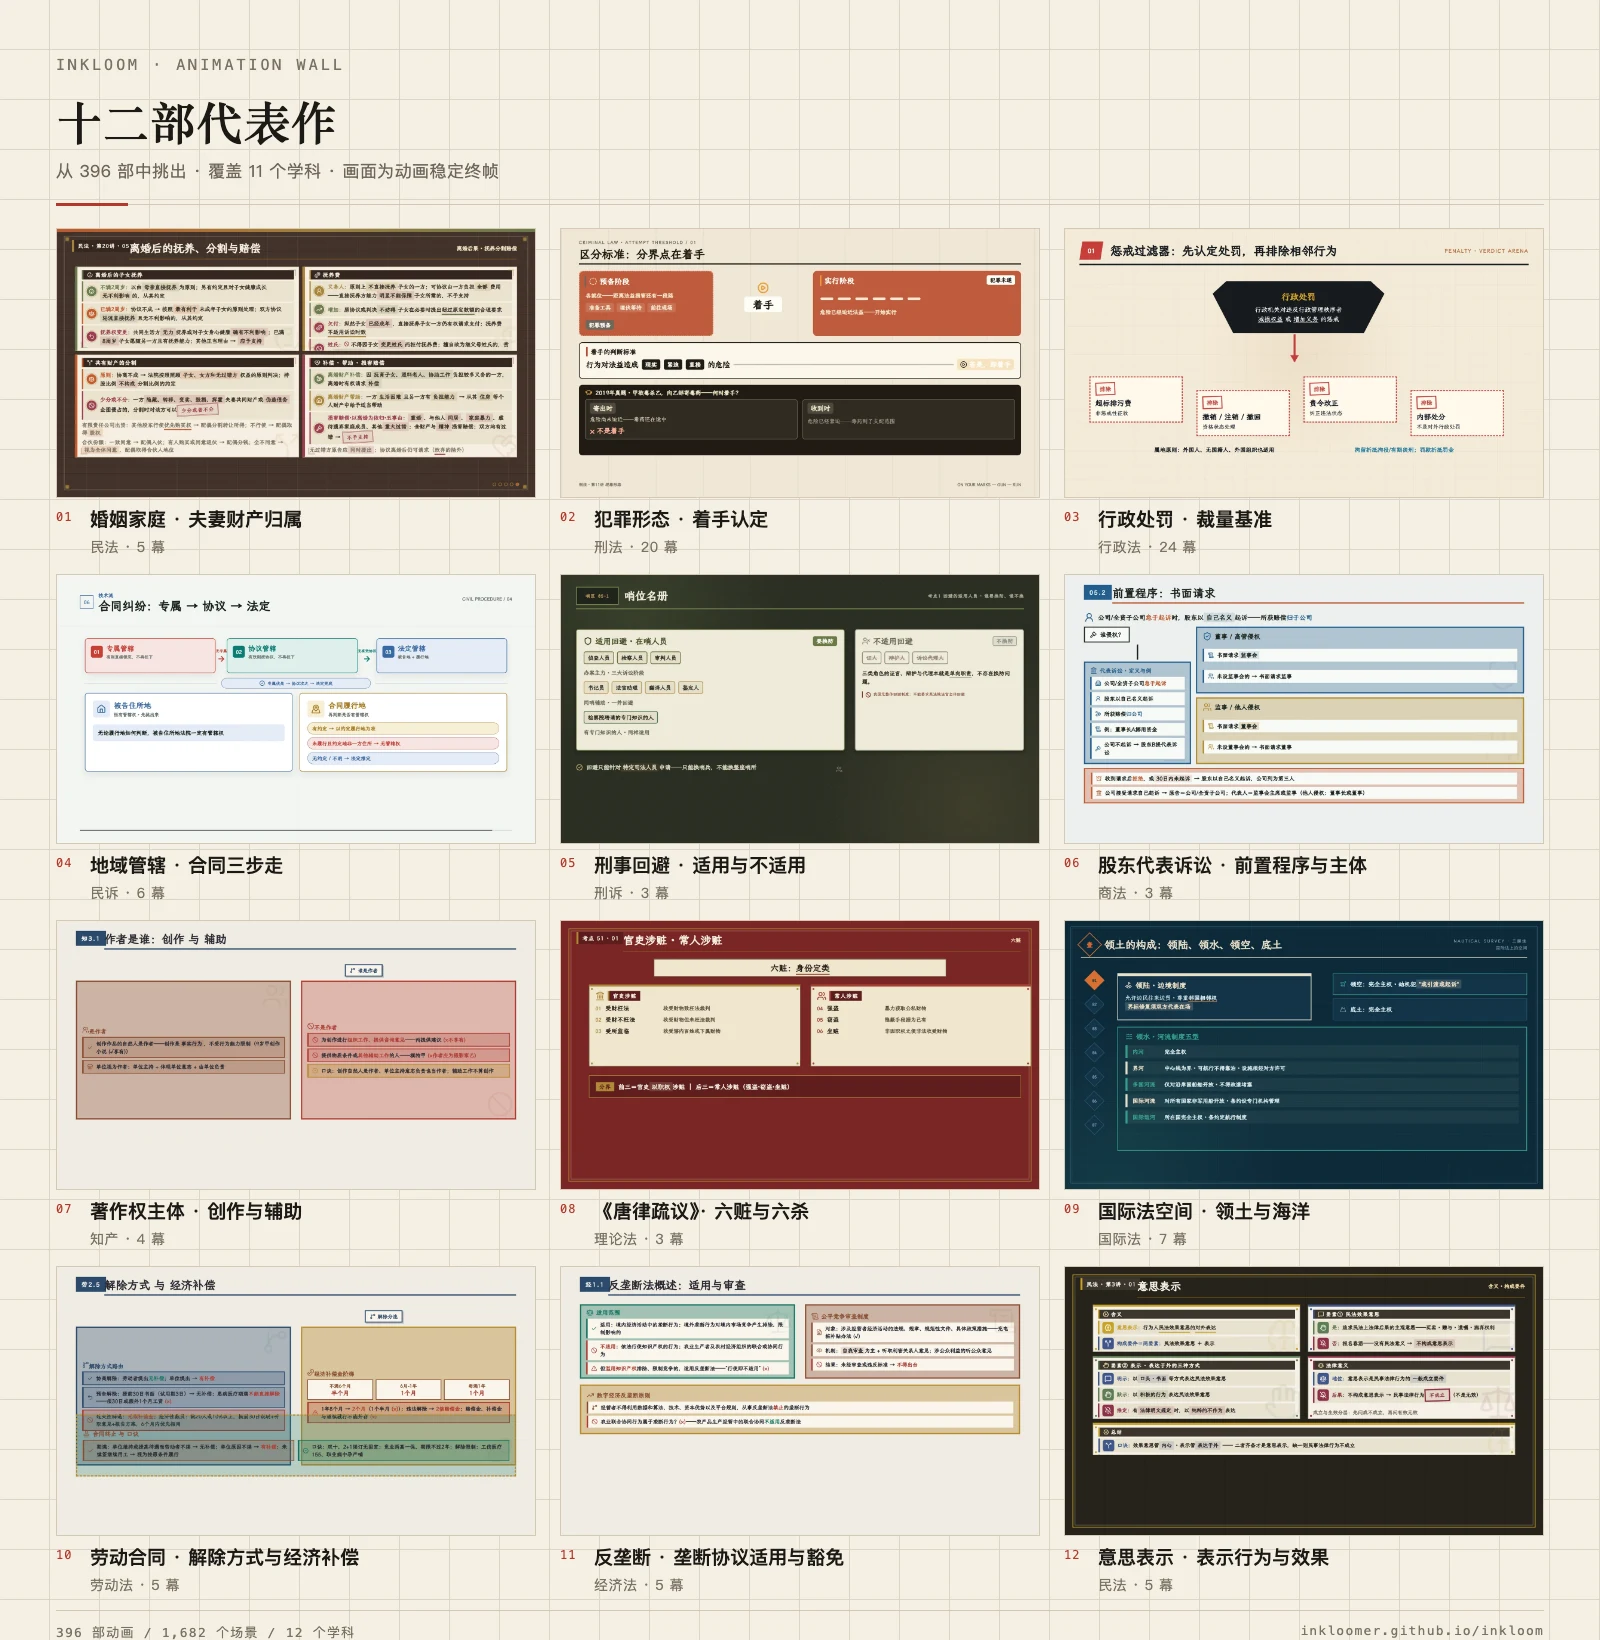
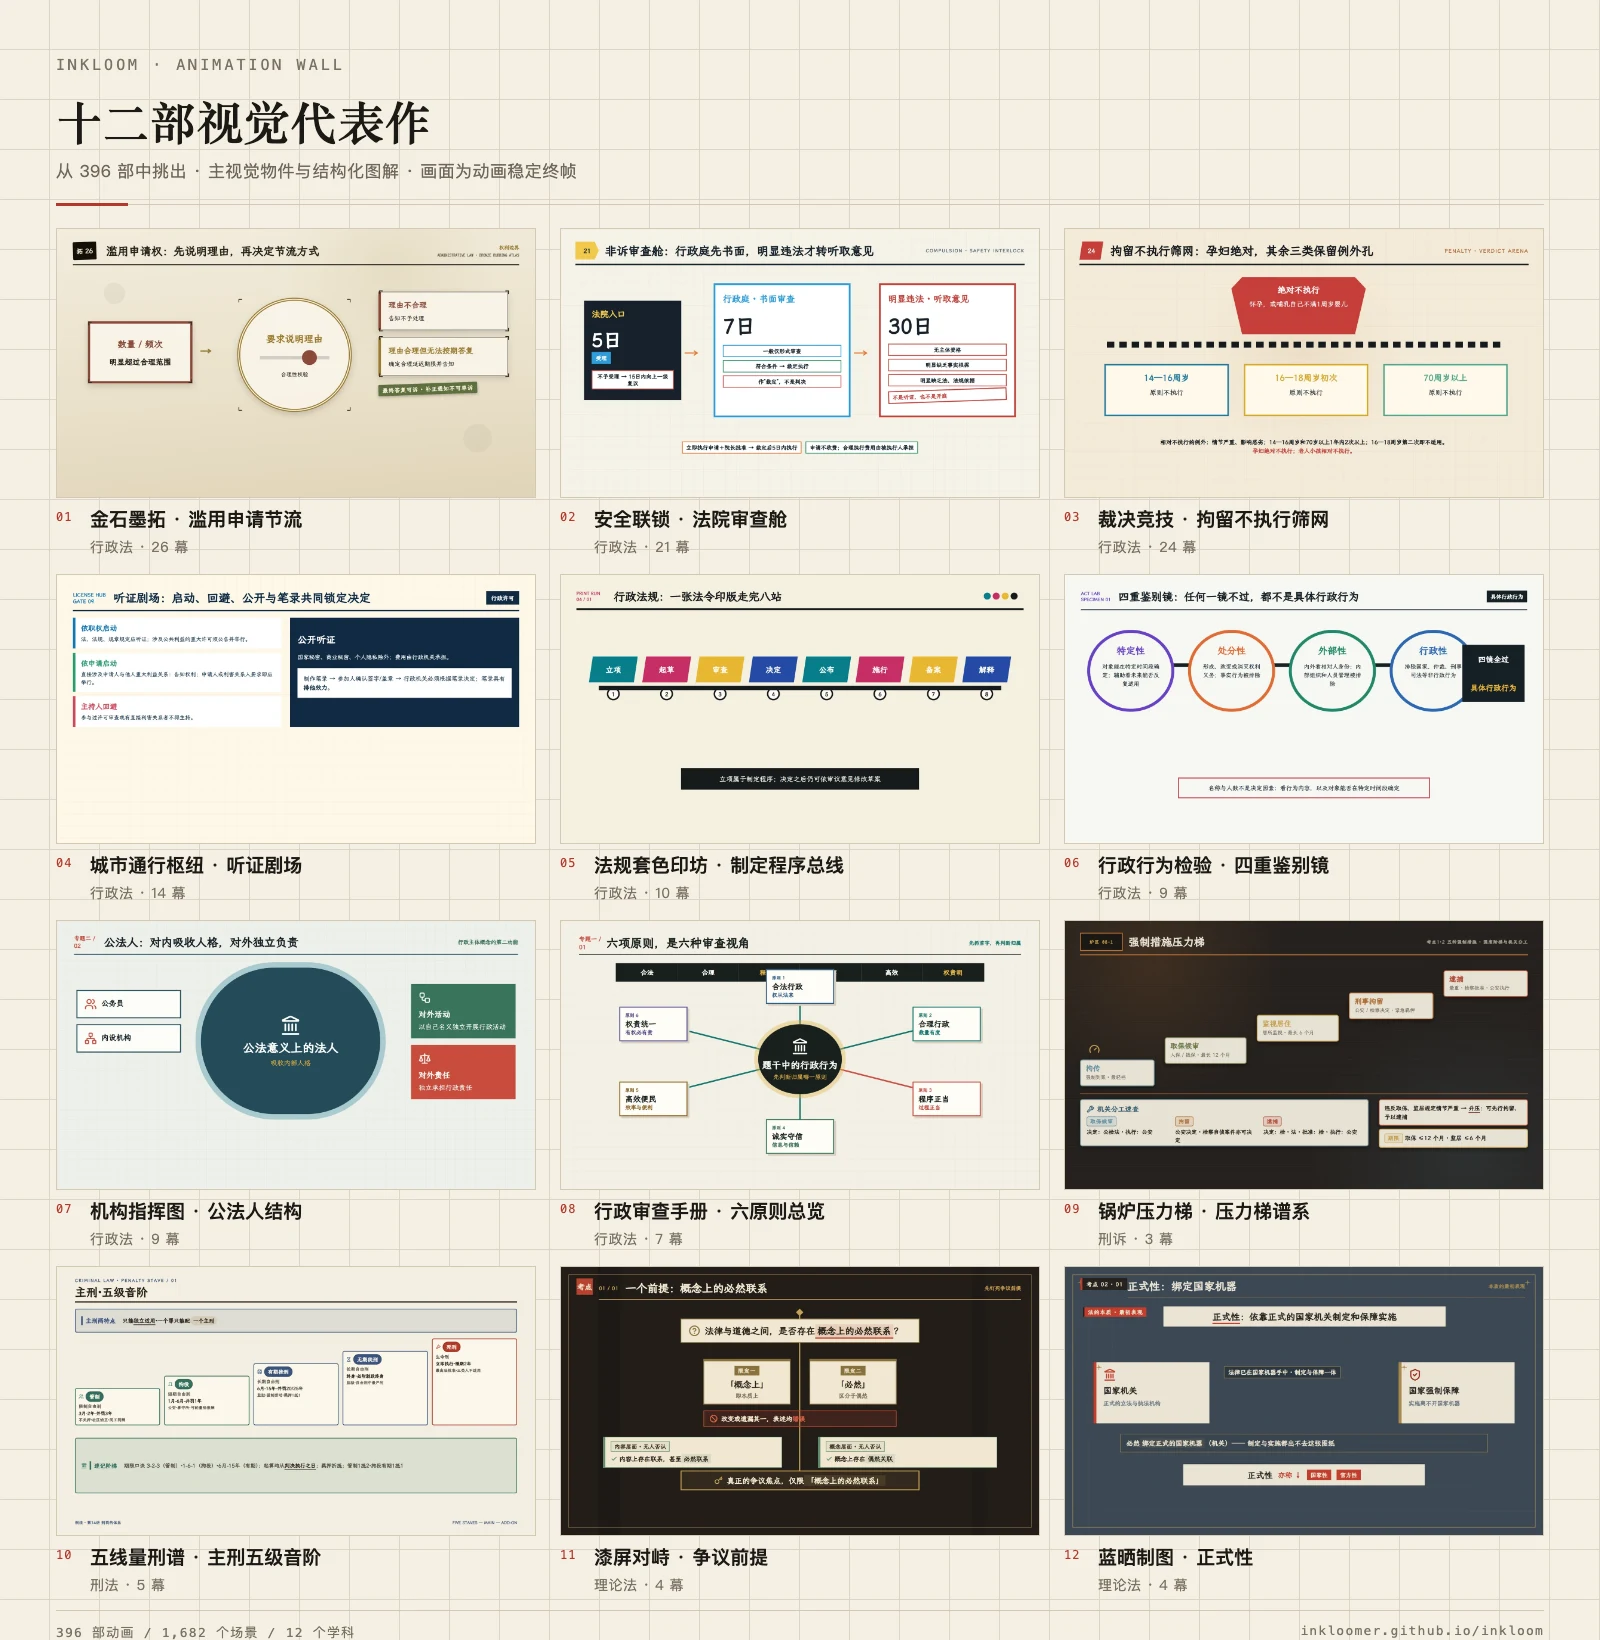
docs(showcase): 重做动画墙，改选主视觉物件代表作
- 换掉原 12 部卡片式静帧，改选有主视觉物件与结构性构图的 12 部
- 保留 396 部完整目录与逐部播放链接
- 同步更新 12 张静帧与来源记录

diff --git a/assets/readme/wall/SOURCES.md b/assets/readme/wall/SOURCES.md
@@ -1,22 +1,21 @@
 # 动画墙静帧来源
 
-每张图截自对应动画的某一幕终帧（scene frame 的 85%），只做缩放与 WebP 转码，不改变画面内容。
+每张图截自对应动画的某一幕稳定终帧（scene frame 的 85%），只做缩放与 WebP 转码，不改变画面内容。
 
 | 文件 | 动画 | 场景 | 帧 | 在线页面 |
 | --- | --- | --- | ---: | --- |
-| `marital-property-divorce-desk.webp` | 婚姻法——妆匣账台 | 离婚后的抚养、分割与赔偿 (`divorce-aftermath-bench`) | 348 | [打开](https://inkloomer.github.io/inkloom/objective/civil-law/20/marital-property-divorce-desk/) |
-| `commencement-threshold-map.webp` | 着手认定：预备与未遂的分界 | 区分标准：分界点在着手 (`stage-boundary`) | 195 | [打开](https://inkloomer.github.io/inkloom/objective/criminal/11/commencement-threshold-map/) |
-| `penalty-verdict-arena.webp` | 行政处罚 | 惩戒定义过滤器 (`sanction-definition-filter`) | 178 | [打开](https://inkloomer.github.io/inkloom/objective/administrative-law/07/penalty-verdict-arena/) |
-| `territorial-jurisdiction.webp` | 地域管辖——连接点、四类路径与合同三步走 | 合同三步走：专属→协议→法定 (`contract-three-step`) | 198 | [打开](https://inkloomer.github.io/inkloom/objective/civil-procedure/04/territorial-jurisdiction/) |
-| `recusal-sentry-rotation.webp` | 刑事回避——哨位名册、三面令旗与换防命令链 | 哨位名册 (`duty-roster-scope`) | 204 | [打开](https://inkloomer.github.io/inkloom/objective/criminal-procedure/05/recusal-sentry-rotation/) |
-| `shareholder-representative-action.webp` | 股东代表诉讼 | 前置程序与请求对象 (`shareholder-representative-action-scene-01`) | 155 | [打开](https://inkloomer.github.io/inkloom/objective/commercial-law/05/shareholder-representative-action/) |
-| `copyright-authorship.webp` | 著作权主体 | 作者认定 (`copyright-authorship-scene-01`) | 127 | [打开](https://inkloomer.github.io/inkloom/objective/intellectual-property-law/03/copyright-authorship/) |
-| `tang-code-liuzang-liusha.webp` | 《唐律疏议》：六赃与六杀 | 六赃：官吏与常人 (`liuzang`) | 224 | [打开](https://inkloomer.github.io/inkloom/objective/theoretical-law/03/tang-code-liuzang-liusha/) |
-| `spatial-regimes.webp` | 国际法上的空间——领土、海洋水域、大陆架与外空 | 领土的构成 (`territory-parts`) | 153 | [打开](https://inkloomer.github.io/inkloom/objective/international-law/03/spatial-regimes/) |
-| `labor-contract-law.webp` | 劳动合同法 | 解除与补偿 (`labor-contract-law-scene-05`) | 140 | [打开](https://inkloomer.github.io/inkloom/objective/labor-social-law/02/labor-contract-law/) |
-| `anti-monopoly-law.webp` | 反垄断法 | 适用与审查 (`anti-monopoly-law-scene-01`) | 136 | [打开](https://inkloomer.github.io/inkloom/objective/economic-law/01/anti-monopoly-law/) |
-| `intention-expression-hall.webp` | 意思表示、实践行为与要式行为——意思表示堂 | 意思表示两要素 (`intention-expression-anatomy`) | 280 | [打开](https://inkloomer.github.io/inkloom/objective/civil-law/03/intention-expression-hall/) |
-
-源 AVIF：`inkloomer/inkloom` 仓库 `public/animation-avif/<animation-id>/<scene-id>.avif`。
+| `transparency-optics-lab.webp` | 三法对比与政府信息公开 | 滥用申请节流 (`abuse-throttle-remedy`) | 204 | [打开](https://inkloomer.github.io/inkloom/objective/administrative-law/09/transparency-optics-lab/) |
+| `compulsion-safety-interlock.webp` | 行政强制 | 法院审查舱 (`court-review-chambers`) | 204 | [打开](https://inkloomer.github.io/inkloom/objective/administrative-law/08/compulsion-safety-interlock/) |
+| `penalty-verdict-arena.webp` | 行政处罚 | 拘留不执行筛网 (`detention-nonexecution-screen`) | 204 | [打开](https://inkloomer.github.io/inkloom/objective/administrative-law/07/penalty-verdict-arena/) |
+| `license-transit-hub.webp` | 行政许可 | 听证剧场 (`hearing-theater`) | 204 | [打开](https://inkloomer.github.io/inkloom/objective/administrative-law/06/license-transit-hub/) |
+| `abstract-act-printworks.webp` | 抽象行政行为 | 制定程序总线 (`legislation-print-line`) | 153 | [打开](https://inkloomer.github.io/inkloom/objective/administrative-law/04/abstract-act-printworks/) |
+| `concrete-act-laboratory.webp` | 具体行政行为一般理论 | 四重鉴别镜 (`four-lens-identification`) | 178 | [打开](https://inkloomer.github.io/inkloom/objective/administrative-law/05/concrete-act-laboratory/) |
+| `administrative-subject-command.webp` | 行政主体 | 公法人结构 (`public-person-shell`) | 135 | [打开](https://inkloomer.github.io/inkloom/objective/administrative-law/02/administrative-subject-command/) |
+| `administrative-principles-compass.webp` | 行政法的基本原则 | 六原则总览 (`six-principles-overview`) | 147 | [打开](https://inkloomer.github.io/inkloom/objective/administrative-law/01/administrative-principles-compass/) |
+| `coercion-pressure-ladder.webp` | 强制措施——压力梯谱系、取保阀门盘与逮捕三重仪表 | 压力梯谱系 (`pressure-ladder-overview`) | 204 | [打开](https://inkloomer.github.io/inkloom/objective/criminal-procedure/08/coercion-pressure-ladder/) |
+| `penalty-scale-office.webp` | 刑罚的体系：主刑五级·附加刑·非刑罚措施 | 主刑·五级音阶 (`main-penalty-ladder`) | 221 | [打开](https://inkloomer.github.io/inkloom/objective/criminal/14/penalty-scale-office/) |
+| `concept-of-law-dispute.webp` | 法概念的争议：一个前提、两大阵营与三要素 | 争议前提与两个限定 (`dispute-premise`) | 234 | [打开](https://inkloomer.github.io/inkloom/objective/theoretical-law/01/concept-of-law-dispute/) |
+| `marxist-law-essence.webp` | 马列法律本质：三重定性与理论地位 | 正式性：绑定国家机器 (`official-formality`) | 224 | [打开](https://inkloomer.github.io/inkloom/objective/theoretical-law/01/marxist-law-essence/) |
 
 合成图 `assets/readme/animation-wall.webp` 由上述 12 张静帧按 3×4 拼合；标题、序号与图注属于排版层，不改变静帧内容。
+
